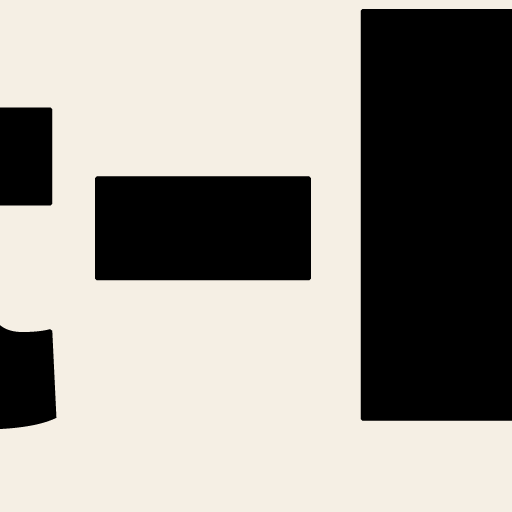
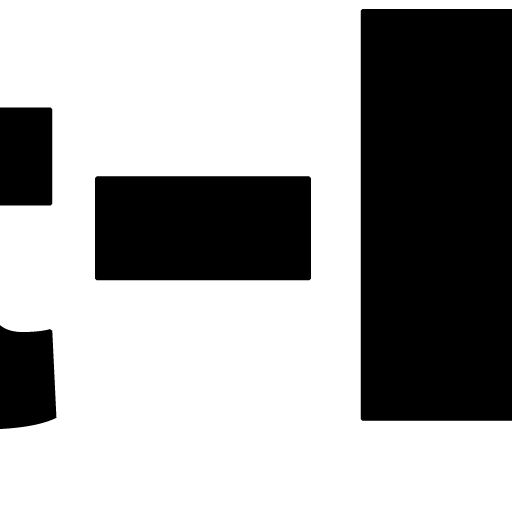
feat: 사이트 배경 white(#FFFFFF) 통일 + Chet Faker 글 hero 승격
배경 white 통일:
- src/styles/tokens.css: --sr-bg cream(#F5EFE4) → white(#FFFFFF)
- --sr-paper #EFE7D7 → #F5F5F3 (살짝 톤다운 grey, 카드/박스 깊이감 유지)
- index.html theme-color #F5EFE4 → #FFFFFF
- public/manifest.webmanifest background_color/theme_color → #FFFFFF
- PWA 아이콘 (192/512/apple-touch) cream padding → white padding 재생성

Chet Faker glass 1998 hero 승격:
- src/content/articles.ts getHeroArticle 우선순위 swap:
  · 이전: 1순위 THE DUEL → 2순위 featuredOn:Hero
  · 이후: 1순위 featuredOn:Hero (편집장 수동) → 2순위 THE DUEL (자동) → 3순위 latest
- content/articles/music/chet-faker-1998.md: featuredOn: [Hero] 추가
- content/articles/gift/parents-day-gift-best-4.md: featuredOn: [Hero] 제거
  (어버이날 글은 5월 8일 가까워지면 다시 hero 가능, 일단 다른 슬롯에 노출)

영향: 홈 진입 시 Chet Faker가 즉시 hero로 노출.

diff --git a/src/content/articles.ts b/src/content/articles.ts
@@ -409,16 +409,17 @@ export function getLatestArticle(): Article | undefined {
 }
 
 export function getHeroArticle(): Article | undefined {
-  // 1순위 — THE DUEL 시리즈 기사 중 최신 것이 항상 hero.
-  //   새 DUEL N°xxx 이 발행되면 자동으로 맨 위로 승격.
+  // 1순위 — featuredOn: ["Hero"] 수동 뱃지 (편집장 수동 승격 우선)
+  //   2026-04-26 업데이트: DUEL 자동 핀보다 manual featuredOn 우선.
+  const featured = articles.find((a) => a.featuredOn?.includes('Hero'))
+  if (featured) return featured
+
+  // 2순위 — THE DUEL 시리즈 기사 중 최신 것
+  //   새 DUEL N°xxx 이 발행되면 자동으로 hero로 승격 (단 featuredOn Hero 없을 때).
   const duels = articles
     .filter((a) => a.categoryLabel === 'THE DUEL')
     .sort((a, b) => b.published.localeCompare(a.published))
   if (duels.length > 0) return duels[0]
-
-  // 2순위 — featuredOn: ["Hero"] 수동 뱃지
-  const featured = articles.find((a) => a.featuredOn?.includes('Hero'))
-  if (featured) return featured
 
   // 3순위 — 최신 기사 (fallback)
   return getLatestArticle()

diff --git a/src/styles/tokens.css b/src/styles/tokens.css
@@ -7,8 +7,10 @@
   /* ───────────────────────────────── */
   /* 기본 팔레트                        */
   /* ───────────────────────────────── */
-  --sr-bg:       #F5EFE4;
-  --sr-paper:    #EFE7D7;
+  /* 2026-04-26: 사이트 전체 배경 cream → white 통일.
+     paper(카드/박스 배경)는 살짝 톤다운 grey로 두어 깊이감 유지. */
+  --sr-bg:       #FFFFFF;
+  --sr-paper:    #F5F5F3;
   --sr-ink:      #1A1A1A;
   --sr-muted:    #6B6B6B;
   --sr-rule:     #C9BFAE;

diff --git a/index.html b/index.html
@@ -4,7 +4,7 @@
     <meta charset="UTF-8" />
     <link rel="icon" type="image/svg+xml" href="/saint-remy.svg" />
     <meta name="viewport" content="width=device-width, initial-scale=1.0" />
-    <meta name="theme-color" content="#F5EFE4" />
+    <meta name="theme-color" content="#FFFFFF" />
 
     <!-- PWA — 모바일 홈 화면 추가 (Add to Home Screen) -->
     <link rel="manifest" href="/manifest.webmanifest" />

diff --git a/content/articles/gift/parents-day-gift-best-4.md b/content/articles/gift/parents-day-gift-best-4.md
@@ -8,8 +8,6 @@ published: '2026-04-24'
 author: Saint-Rémy Editors
 thumbnailColor: '#8B2A2A'
 heroImage: /images/articles/parents-day-gift-best-4/hero.svg
-featuredOn:
-  - Hero
 affiliateDisclosure: >-
   이 기사에는 Saint-Rémy Editors의 어필리에이트 링크가 포함되어 있습니다.
   독자의 구매가 발생할 경우 일정 수수료를 제공받으나, 제품 선정은 독립적으로 이루어집니다.

diff --git a/content/articles/music/chet-faker-1998.md b/content/articles/music/chet-faker-1998.md
@@ -10,6 +10,8 @@ author: Saint-Rémy Editors
 thumbnailColor: '#C9B370'
 heroImage: /images/articles/chet-faker-1998/hero.jpg
 youtube: EIQQnoeepgU
+featuredOn:
+  - Hero
 roundup:
   - sectionTitle: '절대 음질 — 음향 마니아의 종착역'
     sectionIntro: |
